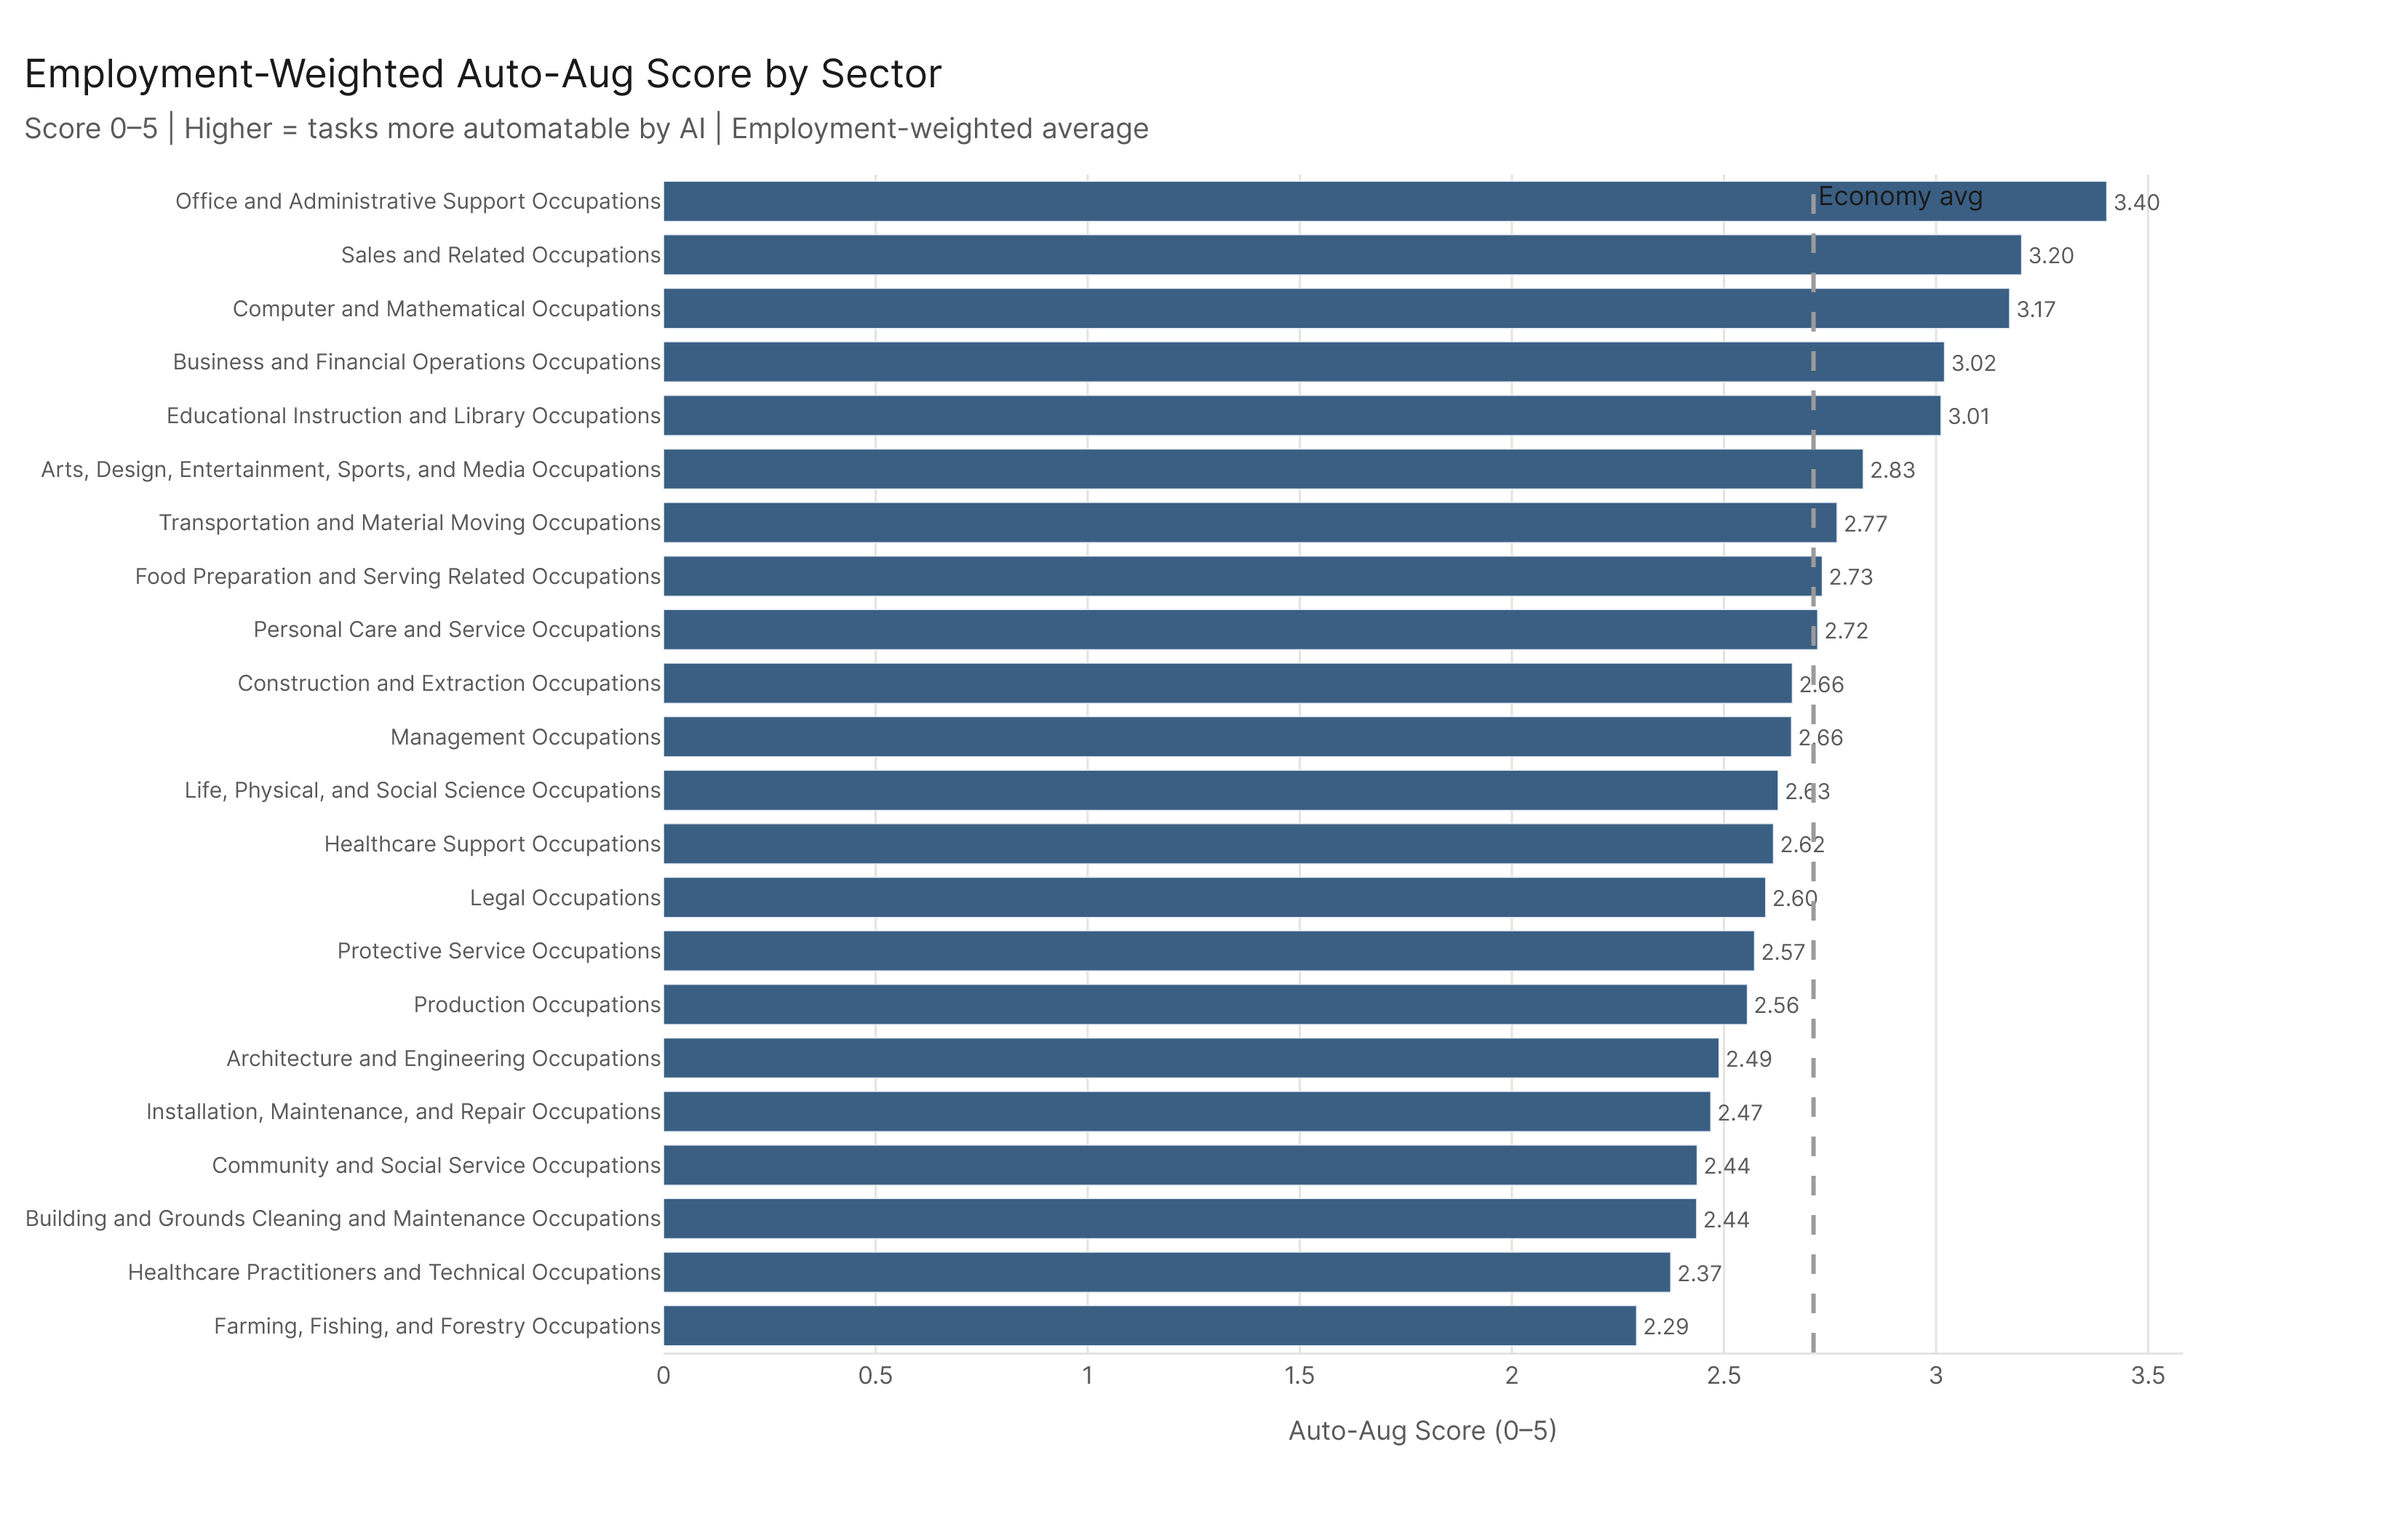
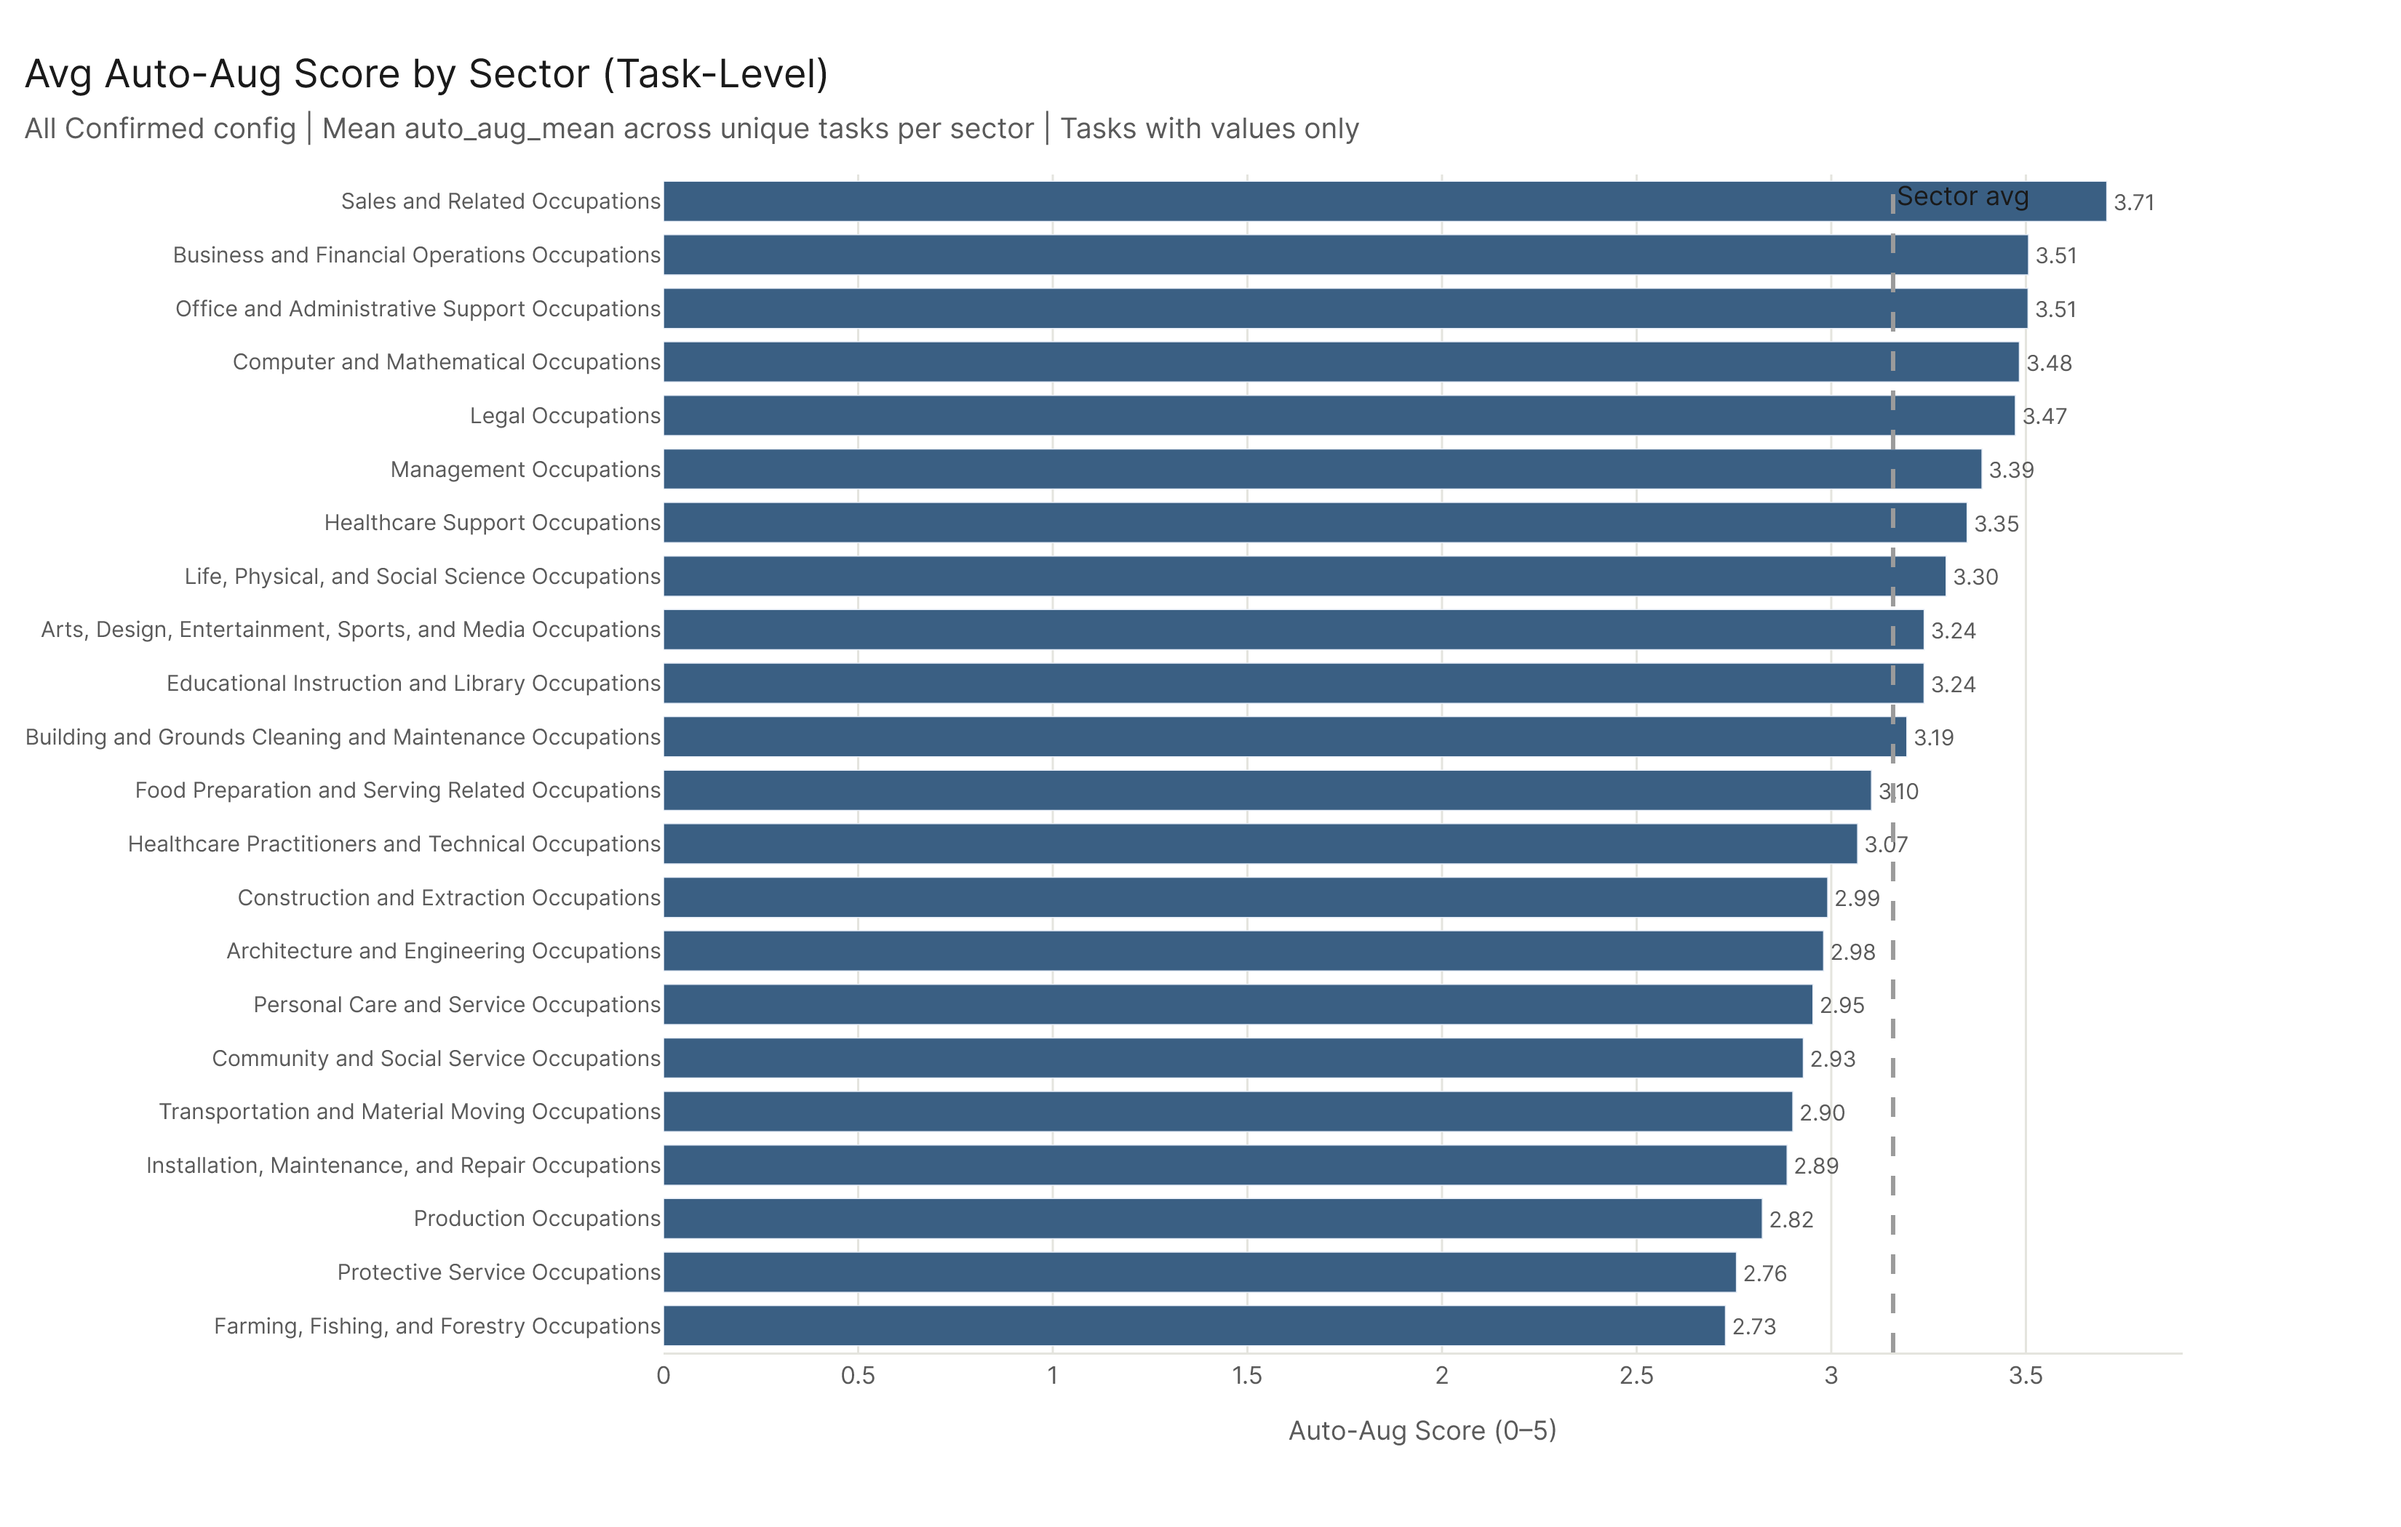
AI modes: fix auto-aug charts — drop duplicate, fix methodology, increase size
- Drop autoaug_by_config_all.png: metric was near-identical to with_vals
  (99.2% of tasks have auto_aug values, max diff was 0.09)
- Replace employment-weighted autoaug_by_major with task-level average
  from the primary config slice (consistent with config comparison chart;
  avoids double-averaging of occupation-level means weighted by emp)
- Increase config chart height 800 -> 1600px so sector labels are readable
- Update report to remove deleted figure and fix descriptions

diff --git a/analysis/questions/economic_footprint/ai_modes/run.py b/analysis/questions/economic_footprint/ai_modes/run.py
@@ -302,34 +302,28 @@ def _build_autoaug_distribution(occ_df: pd.DataFrame) -> go.Figure:
     return fig
 
 
-def _build_autoaug_by_major(occ_df: pd.DataFrame) -> go.Figure:
-    """Employment-weighted average auto-aug score per major category."""
-    valid = occ_df[occ_df["auto_avg"].notna() & (occ_df["emp"] > 0)].copy()
-    _vw = valid[["major", "auto_avg", "emp"]].copy()
-    _vw["_weighted"] = _vw["auto_avg"] * _vw["emp"]
+def _build_autoaug_by_major(config_df: pd.DataFrame) -> go.Figure:
+    """Average auto-aug score per major category (task-level, primary config)."""
     major_avg = (
-        _vw.groupby("major")[["_weighted", "emp"]].sum()
-        .assign(auto_avg_wtd=lambda d: d["_weighted"] / d["emp"])
-        .drop(columns=["_weighted", "emp"])
-        .reset_index()
-        .sort_values("auto_avg_wtd", ascending=True)
+        config_df[config_df["avg_auto_aug_with_vals"].notna()]
+        .sort_values("avg_auto_aug_with_vals", ascending=True)
     )
 
     fig = go.Figure(go.Bar(
-        x=major_avg["auto_avg_wtd"],
+        x=major_avg["avg_auto_aug_with_vals"],
         y=major_avg["major"],
         orientation="h",
         marker_color=COLORS["primary"],
-        text=[f"{v:.2f}" for v in major_avg["auto_avg_wtd"]],
+        text=[f"{v:.2f}" for v in major_avg["avg_auto_aug_with_vals"]],
         textposition="outside",
         textfont=dict(size=10, color=COLORS["neutral"], family=FONT_FAMILY),
         cliponaxis=False,
     ))
-    fig.add_vline(x=major_avg["auto_avg_wtd"].mean(), line_dash="dash",
-                  line_color=COLORS["muted"], annotation_text="Economy avg")
+    fig.add_vline(x=major_avg["avg_auto_aug_with_vals"].mean(), line_dash="dash",
+                  line_color=COLORS["muted"], annotation_text="Sector avg")
 
-    style_figure(fig, "Employment-Weighted Auto-Aug Score by Sector",
-                 subtitle="Score 0–5 | Higher = tasks more automatable by AI | Employment-weighted average",
+    style_figure(fig, "Avg Auto-Aug Score by Sector (Task-Level)",
+                 subtitle=f"All Confirmed config | Mean auto_aug_mean across unique tasks per sector | Tasks with values only",
                  x_title="Auto-Aug Score (0–5)", show_legend=False, height=700, width=1100)
     fig.update_layout(
         margin=dict(l=20, r=100),
@@ -370,13 +364,13 @@ def _build_autoaug_by_config(all_config_df: pd.DataFrame, metric: str,
         ))
 
     style_figure(fig, title, subtitle=subtitle,
-                 x_title="Auto-Aug Score (0–5)", height=800, width=1300)
+                 x_title="Auto-Aug Score (0–5)", height=1600, width=1400)
     fig.update_layout(
         barmode="group",
-        margin=dict(l=20, r=120),
+        margin=dict(l=20, r=140),
         xaxis=dict(showgrid=True, gridcolor=COLORS["grid"]),
-        yaxis=dict(showgrid=False, showline=False, tickfont=dict(size=10)),
-        bargap=0.2,
+        yaxis=dict(showgrid=False, showline=False, tickfont=dict(size=11)),
+        bargap=0.25,
         bargroupgap=0.05,
     )
     return fig
@@ -540,11 +534,8 @@ def main() -> None:
                 figs_dir / "autoaug_distribution.png")
     print("  autoaug_distribution.png")
 
-    # 3c. Auto-aug by major
-    fig_major = _build_autoaug_by_major(occ_autoaug)
-    save_figure(fig_major, results / "figures" / "autoaug_by_major.png")
-    shutil.copy(results / "figures" / "autoaug_by_major.png", figs_dir / "autoaug_by_major.png")
-    print("  autoaug_by_major.png")
+    # 3c. Auto-aug by major (task-level, primary config — computed below with config loop)
+    # Built after config_autoaug_dfs so we can reuse the primary config slice.
 
     # 3d. Mode scatter
     fig_scatter = _build_mode_scatter(conv_major, agentic_major)
@@ -581,25 +572,25 @@ def main() -> None:
     all_config_autoaug = pd.concat(config_autoaug_dfs, ignore_index=True)
     save_csv(all_config_autoaug, results / "autoaug_by_major_config.csv")
 
+    # 3c (continued). Auto-aug by major — primary config slice (task-level, no emp weighting)
+    primary_autoaug = all_config_autoaug[all_config_autoaug["config_key"] == PRIMARY_KEY].copy()
+    fig_major = _build_autoaug_by_major(primary_autoaug)
+    save_figure(fig_major, results / "figures" / "autoaug_by_major.png")
+    shutil.copy(results / "figures" / "autoaug_by_major.png", figs_dir / "autoaug_by_major.png")
+    print("  autoaug_by_major.png")
+
+    # 3g. Auto-aug by major across all configs (grouped bar, with-values metric only)
+    # The "all tasks (missing=0)" metric is nearly identical (99%+ tasks have values)
+    # so only the "with values" chart is produced.
     fig_aa_with = _build_autoaug_by_config(
         all_config_autoaug, "avg_auto_aug_with_vals",
-        "Avg Auto-Aug by Sector × Config (Tasks With Values)",
-        subtitle="Average auto_aug_mean across unique tasks that have a value | By dataset config",
+        "Avg Auto-Aug Score by Sector × Config",
+        subtitle="Mean auto_aug_mean across unique tasks with a value | One bar per dataset config",
     )
     save_figure(fig_aa_with, results / "figures" / "autoaug_by_config_with_vals.png")
     shutil.copy(results / "figures" / "autoaug_by_config_with_vals.png",
                 figs_dir / "autoaug_by_config_with_vals.png")
     print("  autoaug_by_config_with_vals.png")
-
-    fig_aa_all = _build_autoaug_by_config(
-        all_config_autoaug, "avg_auto_aug_all",
-        "Avg Auto-Aug by Sector × Config (All Tasks, Missing=0)",
-        subtitle="Average auto_aug_mean across all unique tasks, NaN treated as 0 | By dataset config",
-    )
-    save_figure(fig_aa_all, results / "figures" / "autoaug_by_config_all.png")
-    shutil.copy(results / "figures" / "autoaug_by_config_all.png",
-                figs_dir / "autoaug_by_config_all.png")
-    print("  autoaug_by_config_all.png")
 
     # -- 4. Summary ------------------------------------------------------------
     print("\n-- Mode totals --")

diff --git a/analysis/question_findings/economic_footprint__ai_modes_report.md b/analysis/question_findings/economic_footprint__ai_modes_report.md
@@ -71,20 +71,13 @@ The by-major-sector breakdown of auto-augmentability scores generally tracks the
 
 ![Auto-Augmentability Distribution Across Affected Workforce](figures/autoaug_distribution.png)
 
-![Auto-Augmentability by Major Sector](figures/autoaug_by_major.png)
+![Avg Auto-Aug Score by Sector — All Confirmed](figures/autoaug_by_major.png)
 
 ### Auto-Aug Across Dataset Configs
 
-Auto-augmentability scores vary by which dataset config is used, because each config's dataset includes different tasks. Two metrics are shown per major sector across all five configs:
+Auto-augmentability scores vary by which dataset config is used, because each config's dataset includes different tasks. The chart below shows the average auto_aug_mean per sector across all five configs (tasks with a score only; 99%+ of tasks have values so an "all tasks" chart would look essentially identical).
 
-1. **Tasks with values**: average auto_aug_mean of tasks that have a score (excludes tasks with no auto-aug assessment)
-2. **All tasks (missing=0)**: average auto_aug_mean across all tasks in that major, treating missing values as 0
-
-The first metric shows how automatable the assessed tasks are; the second shows overall automation potential including coverage gaps.
-
-![Auto-Aug by Sector and Config — Tasks With Values](figures/autoaug_by_config_with_vals.png)
-
-![Auto-Aug by Sector and Config — All Tasks](figures/autoaug_by_config_all.png)
+![Avg Auto-Aug Score by Sector × Config](figures/autoaug_by_config_with_vals.png)
 
 ---
 

diff --git a/analysis/questions/economic_footprint/ai_modes/ai_modes_report.md b/analysis/questions/economic_footprint/ai_modes/ai_modes_report.md
@@ -71,20 +71,13 @@ The by-major-sector breakdown of auto-augmentability scores generally tracks the
 
 ![Auto-Augmentability Distribution Across Affected Workforce](figures/autoaug_distribution.png)
 
-![Auto-Augmentability by Major Sector](figures/autoaug_by_major.png)
+![Avg Auto-Aug Score by Sector — All Confirmed](figures/autoaug_by_major.png)
 
 ### Auto-Aug Across Dataset Configs
 
-Auto-augmentability scores vary by which dataset config is used, because each config's dataset includes different tasks. Two metrics are shown per major sector across all five configs:
+Auto-augmentability scores vary by which dataset config is used, because each config's dataset includes different tasks. The chart below shows the average auto_aug_mean per sector across all five configs (tasks with a score only; 99%+ of tasks have values so an "all tasks" chart would look essentially identical).
 
-1. **Tasks with values**: average auto_aug_mean of tasks that have a score (excludes tasks with no auto-aug assessment)
-2. **All tasks (missing=0)**: average auto_aug_mean across all tasks in that major, treating missing values as 0
-
-The first metric shows how automatable the assessed tasks are; the second shows overall automation potential including coverage gaps.
-
-![Auto-Aug by Sector and Config — Tasks With Values](figures/autoaug_by_config_with_vals.png)
-
-![Auto-Aug by Sector and Config — All Tasks](figures/autoaug_by_config_all.png)
+![Avg Auto-Aug Score by Sector × Config](figures/autoaug_by_config_with_vals.png)
 
 ---
 
